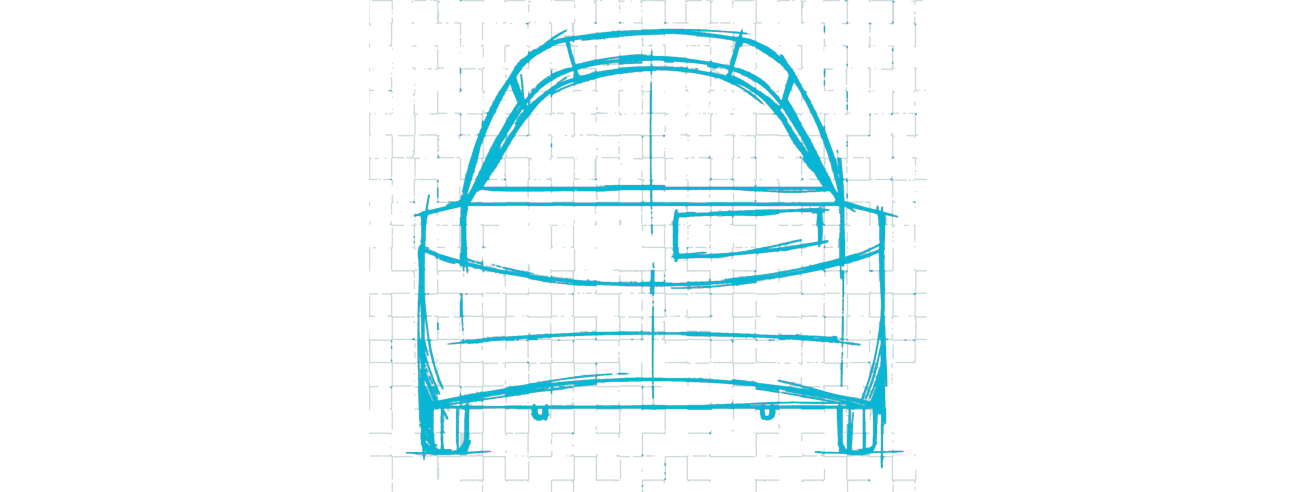
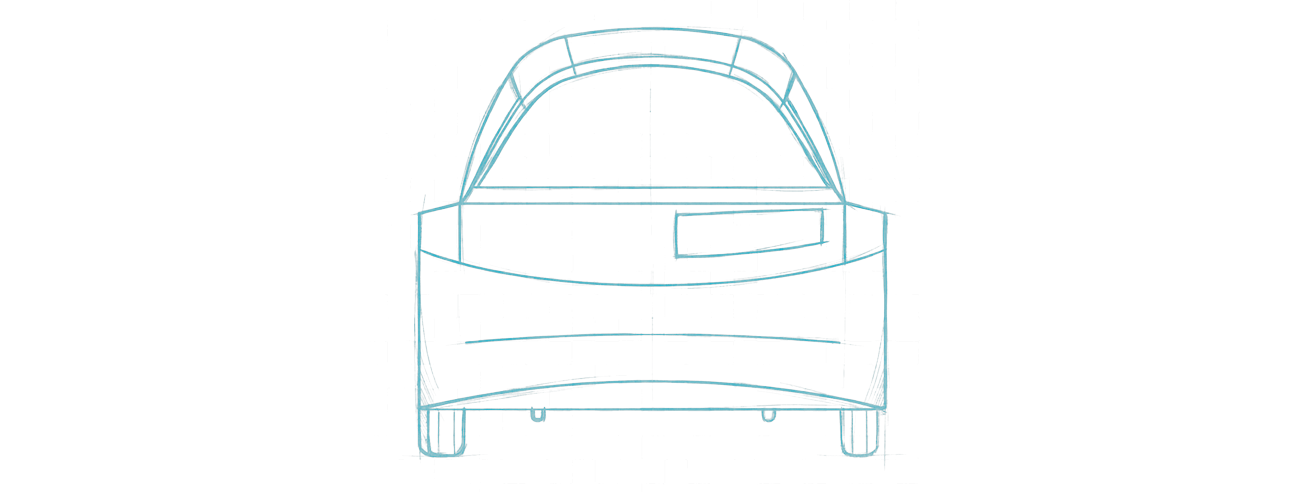
fix: restore hydro_4 processing algorithm to heavily dilate the lines

diff --git a/android-app/app/src/main/assets/index.html b/android-app/app/src/main/assets/index.html
@@ -24,7 +24,7 @@
     <link rel="stylesheet" href="https://cdnjs.cloudflare.com/ajax/libs/font-awesome/6.4.0/css/all.min.css">
 
     <!-- CSS -->
-    <link rel="stylesheet" href="css/style.css?v=118">
+    <link rel="stylesheet" href="css/style.css?v=119">
 
     <!-- FAST SPLASH CHECK -->
     <script>
@@ -1223,7 +1223,7 @@
     <script src="https://unpkg.com/leaflet@1.9.4/dist/leaflet.js"></script>
 
     <!-- Custom Scripts (Minified for Production) -->
-    <script src="js/app.min.js?v=118"></script>
+    <script src="js/app.min.js?v=119"></script>
 
     <!-- Service Worker & Pull-to-Refresh -->
     <script>
@@ -1266,6 +1266,7 @@
 </body>
 
 </html>
+
 
 
 

diff --git a/public/index.html b/public/index.html
@@ -24,7 +24,7 @@
     <link rel="stylesheet" href="https://cdnjs.cloudflare.com/ajax/libs/font-awesome/6.4.0/css/all.min.css">
 
     <!-- CSS -->
-    <link rel="stylesheet" href="css/style.css?v=118">
+    <link rel="stylesheet" href="css/style.css?v=119">
 
     <!-- FAST SPLASH CHECK -->
     <script>
@@ -1223,7 +1223,7 @@
     <script src="https://unpkg.com/leaflet@1.9.4/dist/leaflet.js"></script>
 
     <!-- Custom Scripts (Minified for Production) -->
-    <script src="js/app.min.js?v=118"></script>
+    <script src="js/app.min.js?v=119"></script>
 
     <!-- Service Worker & Pull-to-Refresh -->
     <script>
@@ -1266,6 +1266,7 @@
 </body>
 
 </html>
+
 
 
 

diff --git a/android-app/app/src/main/assets/sw.js b/android-app/app/src/main/assets/sw.js
@@ -10,7 +10,7 @@
 // ============================================================
 
 // Ã–nbellek versiyonu - Her gÃ¼ncellemede artÄ±rÄ±lmalÄ±
-const CACHE_NAME = 'telemetri-v118';
+const CACHE_NAME = 'telemetri-v119';
 
 // Statik dosyalar - Cache First (sadece ikonlar ve manifest)
 const STATIC_ASSETS = [
@@ -193,6 +193,7 @@ self.addEventListener('sync', event => {
         console.log('[SW] Background sync triggered');
     }
 });
+
 
 
 

diff --git a/public/sw.js b/public/sw.js
@@ -10,7 +10,7 @@
 // ============================================================
 
 // Ã–nbellek versiyonu - Her gÃ¼ncellemede artÄ±rÄ±lmalÄ±
-const CACHE_NAME = 'telemetri-v118';
+const CACHE_NAME = 'telemetri-v119';
 
 // Statik dosyalar - Cache First (sadece ikonlar ve manifest)
 const STATIC_ASSETS = [
@@ -193,6 +193,7 @@ self.addEventListener('sync', event => {
         console.log('[SW] Background sync triggered');
     }
 });
+
 
 
 
